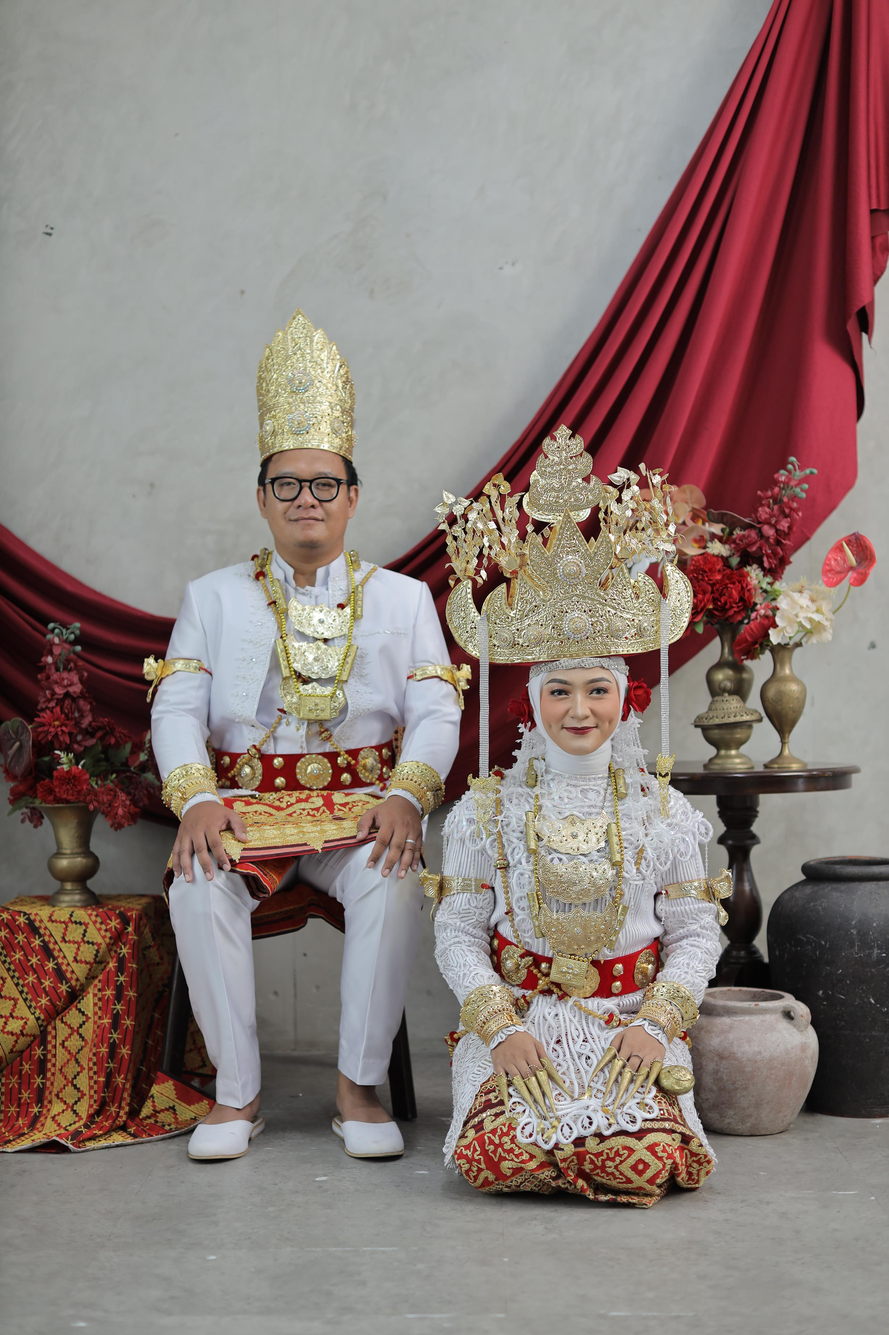
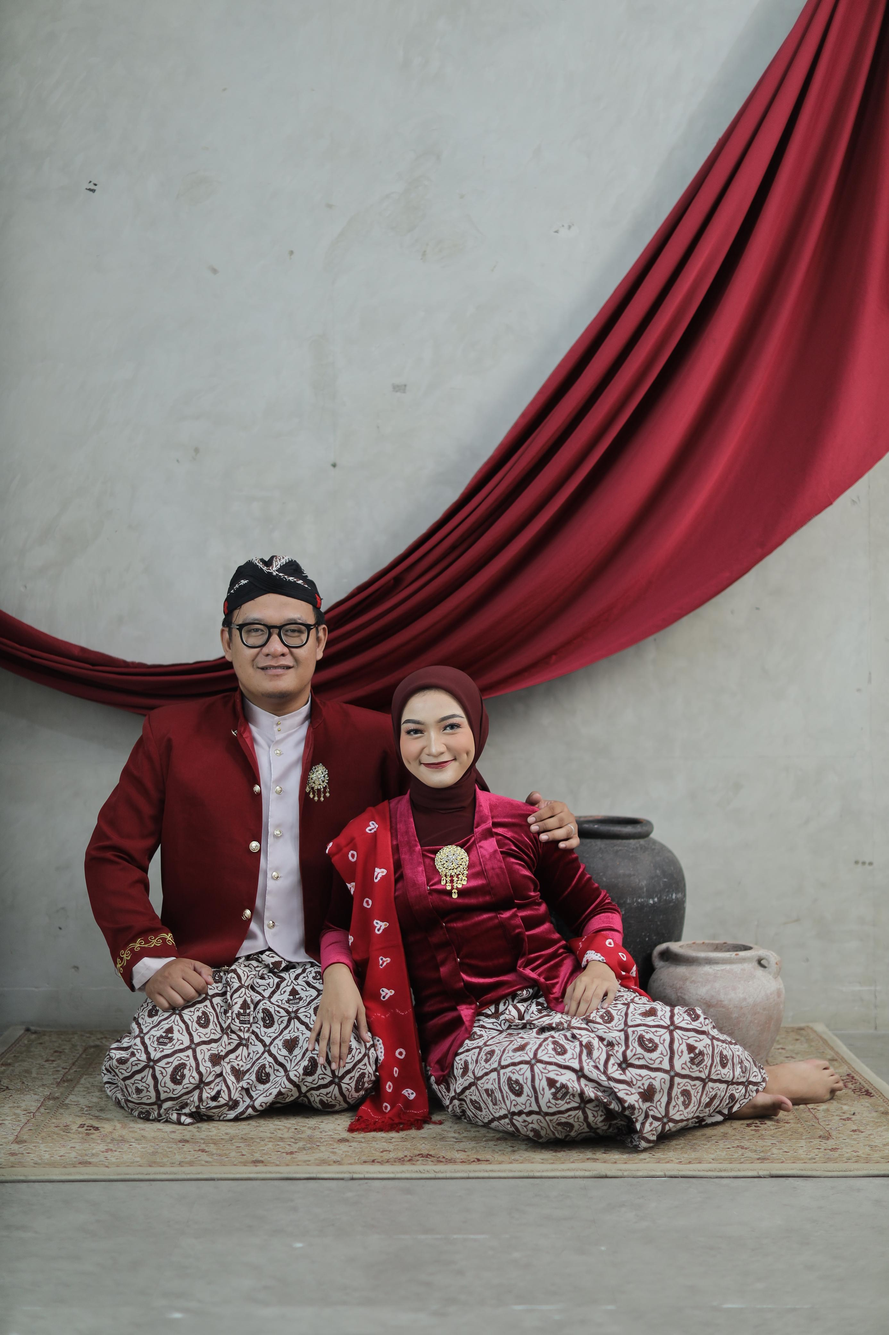
udpdate content

diff --git a/index.html b/index.html
@@ -45,13 +45,13 @@
   <h2 class="title">Dengan penuh kebahagiaan</h2>
   <div class="couple">
    <div class="person">
-    <h3>Aulia Nuraini</h3>
-    <p>Putra dari Bapak Sobri<br>& Ibu Dewi Adawiyah</p>
+    <h3>Aulia Nuraini, S.T.P</h3>
+    <p>Putra Bungsu dari Bpk. Sobri, S.Pd<br>& Ibu Dewi Adawiyah</p>
    </div>
    <div class="divider">&</div>
    <div class="person">
-    <h3>Fendy</h3>
-    <p>Putri dari Bapak Budi Santoso<br>& Ibu Dewi Lestari</p>
+    <h3>Fendy Ahmad Fauzi, S.E, M.M</h3>
+    <p>Putri Kedua dari Bpk. Budi Soewanto, S.E<br>& Ibu Endang Setyawati</p>
    </div>
   </div>
  </div>
@@ -71,16 +71,18 @@
    <div class="event">
     <div class="label">Akad Nikah</div>
     <h3>Sabtu, 07 November 2026</h3>
-    <div class="time">08.00 WIB – SELESAI</div>
-    <p>Masjid Al-Ikhlas<br>Jl. Contoh No. 123, Tangerang</p>
-    <a class="btn" target="_blank" href="https://maps.google.com/?q=Masjid+Al-Ikhlas+Tangerang">Buka Maps</a>
+    <div class="time">09.00 WIB</div>
+    <p>Perumahan Villa Balaraja,<br>Lapangan Balai Rt. 010 & Rt. 09 / RW. 05
+      <br>Desa Saga Kec. Balaraja Kab. Tangerang-Banten</p>
+    <a class="btn" target="_blank" href="https://maps.app.goo.gl/LjVpG7qTc7yE7SAs8">Buka Maps</a>
    </div>
    <div class="event">
     <div class="label">Resepsi</div>
     <h3>Sabtu, 07 November 2026</h3>
-    <div class="time">11.00 – 14.00 WIB</div>
-    <p>Gedung Serbaguna Bahagia<br>Jl. Contoh No. 456, Tangerang</p>
-    <a class="btn" target="_blank" href="https://maps.google.com/?q=Gedung+Serbaguna+Bahagia+Tangerang">Buka Maps</a>
+    <div class="time">11.00 – SELESAI</div>
+    <p>Perumahan Villa Balaraja,<br>Lapangan Balai Rt. 010 & Rt. 09 / RW. 05
+      <br>Desa Saga Kec. Balaraja Kab. Tangerang-Banten</p>
+    <a class="btn" target="_blank" href="https://maps.app.goo.gl/LjVpG7qTc7yE7SAs8">Buka Maps</a>
    </div>
   </div>
  </div>
@@ -92,8 +94,7 @@
   <h2 class="title">Sebuah cerita sederhana</h2>
   <p class="story">Berawal dari sebuah pertemuan sederhana, kemudian tumbuh menjadi rasa yang membawa kami pada satu keputusan besar: melangkah bersama dalam ikatan pernikahan. Dengan memohon doa dan restu, kami mengundang Anda untuk menjadi bagian dari hari istimewa kami.</p>
   <div class="gallery">
-   <div class="photo"><img src="foto 1.jpeg" alt="Foto 01"></div><div class="photo"><img src="foto 2.jpeg" alt="Foto 02"></div><div class="photo"><img src="foto 3.jpeg" alt="Foto 03"></div>
-   <div class="photo"><img src="foto 4.jpeg" alt="Foto 04"></div>
+   <div class="photo"><img src="foto 1.jpeg" alt="Foto 01"></div><div class="photo"><img src="foto 2.jpeg" alt="Foto 02"></div>
   </div>
  </div>
 </section>
@@ -126,7 +127,7 @@
 </audio>
 
 <script>
-const weddingDate = new Date("2026-11-21T08:00:00+07:00").getTime();
+const weddingDate = new Date("2026-11-07T09:00:00+07:00").getTime();
 
 function openInvitation(){
   const audio = document.getElementById("music");
@@ -162,7 +163,7 @@ function sendRSVP(e){
  e.preventDefault();
  const name=document.getElementById('guest').value;
  const msg=document.getElementById('message').value || 'InsyaAllah saya akan hadir. Mohon doa restunya.';
- const phone='6281234567890'; // GANTI nomor WhatsApp tujuan
+ const phone='6281318931839'; // GANTI nomor WhatsApp tujuan
  const text=`Halo, saya ${name}.%0A%0A${encodeURIComponent(msg)}%0A%0AUndangan Arif & Nadia`;
  window.open(`https://wa.me/${phone}?text=${text}`,'_blank');
 }

diff --git a/style.css b/style.css
@@ -47,7 +47,7 @@ a{text-decoration:none;color:inherit}
 .content-card{background:var(--paper);border:1px solid var(--line);padding:45px;max-width:760px;margin:35px auto 0;text-align:center}
 .quote{font-family:"Cormorant Garamond",serif;font-size:28px;line-height:1.35}
 .couple{display:grid;grid-template-columns:1fr auto 1fr;gap:35px;align-items:center;max-width:850px;margin:45px auto 0}
-.person h3{font-size:42px;font-weight:500}
+.person h3{font-size:31px;font-weight:500}
 .person p{font-size:12px;color:var(--muted);margin-top:8px}
 .divider{font-family:"Cormorant Garamond",serif;font-size:50px;color:var(--accent)}
 .events{display:grid;grid-template-columns:repeat(2,1fr);gap:20px;margin-top:45px}
@@ -65,12 +65,13 @@ a{text-decoration:none;color:inherit}
 .map-box span{font-family:"Cormorant Garamond";font-size:30px;color:#8e8376}
 .gallery{
     display:grid;
-    grid-template-columns:repeat(2,1fr);
+    grid-template-columns:1fr;
     gap:12px;
     margin-top:40px
 }
 
 .photo {
+    width:100%;
     aspect-ratio: 1 / 1;
     background: linear-gradient(135deg, #ddd2c4, #f4efe8);
     display: flex;
